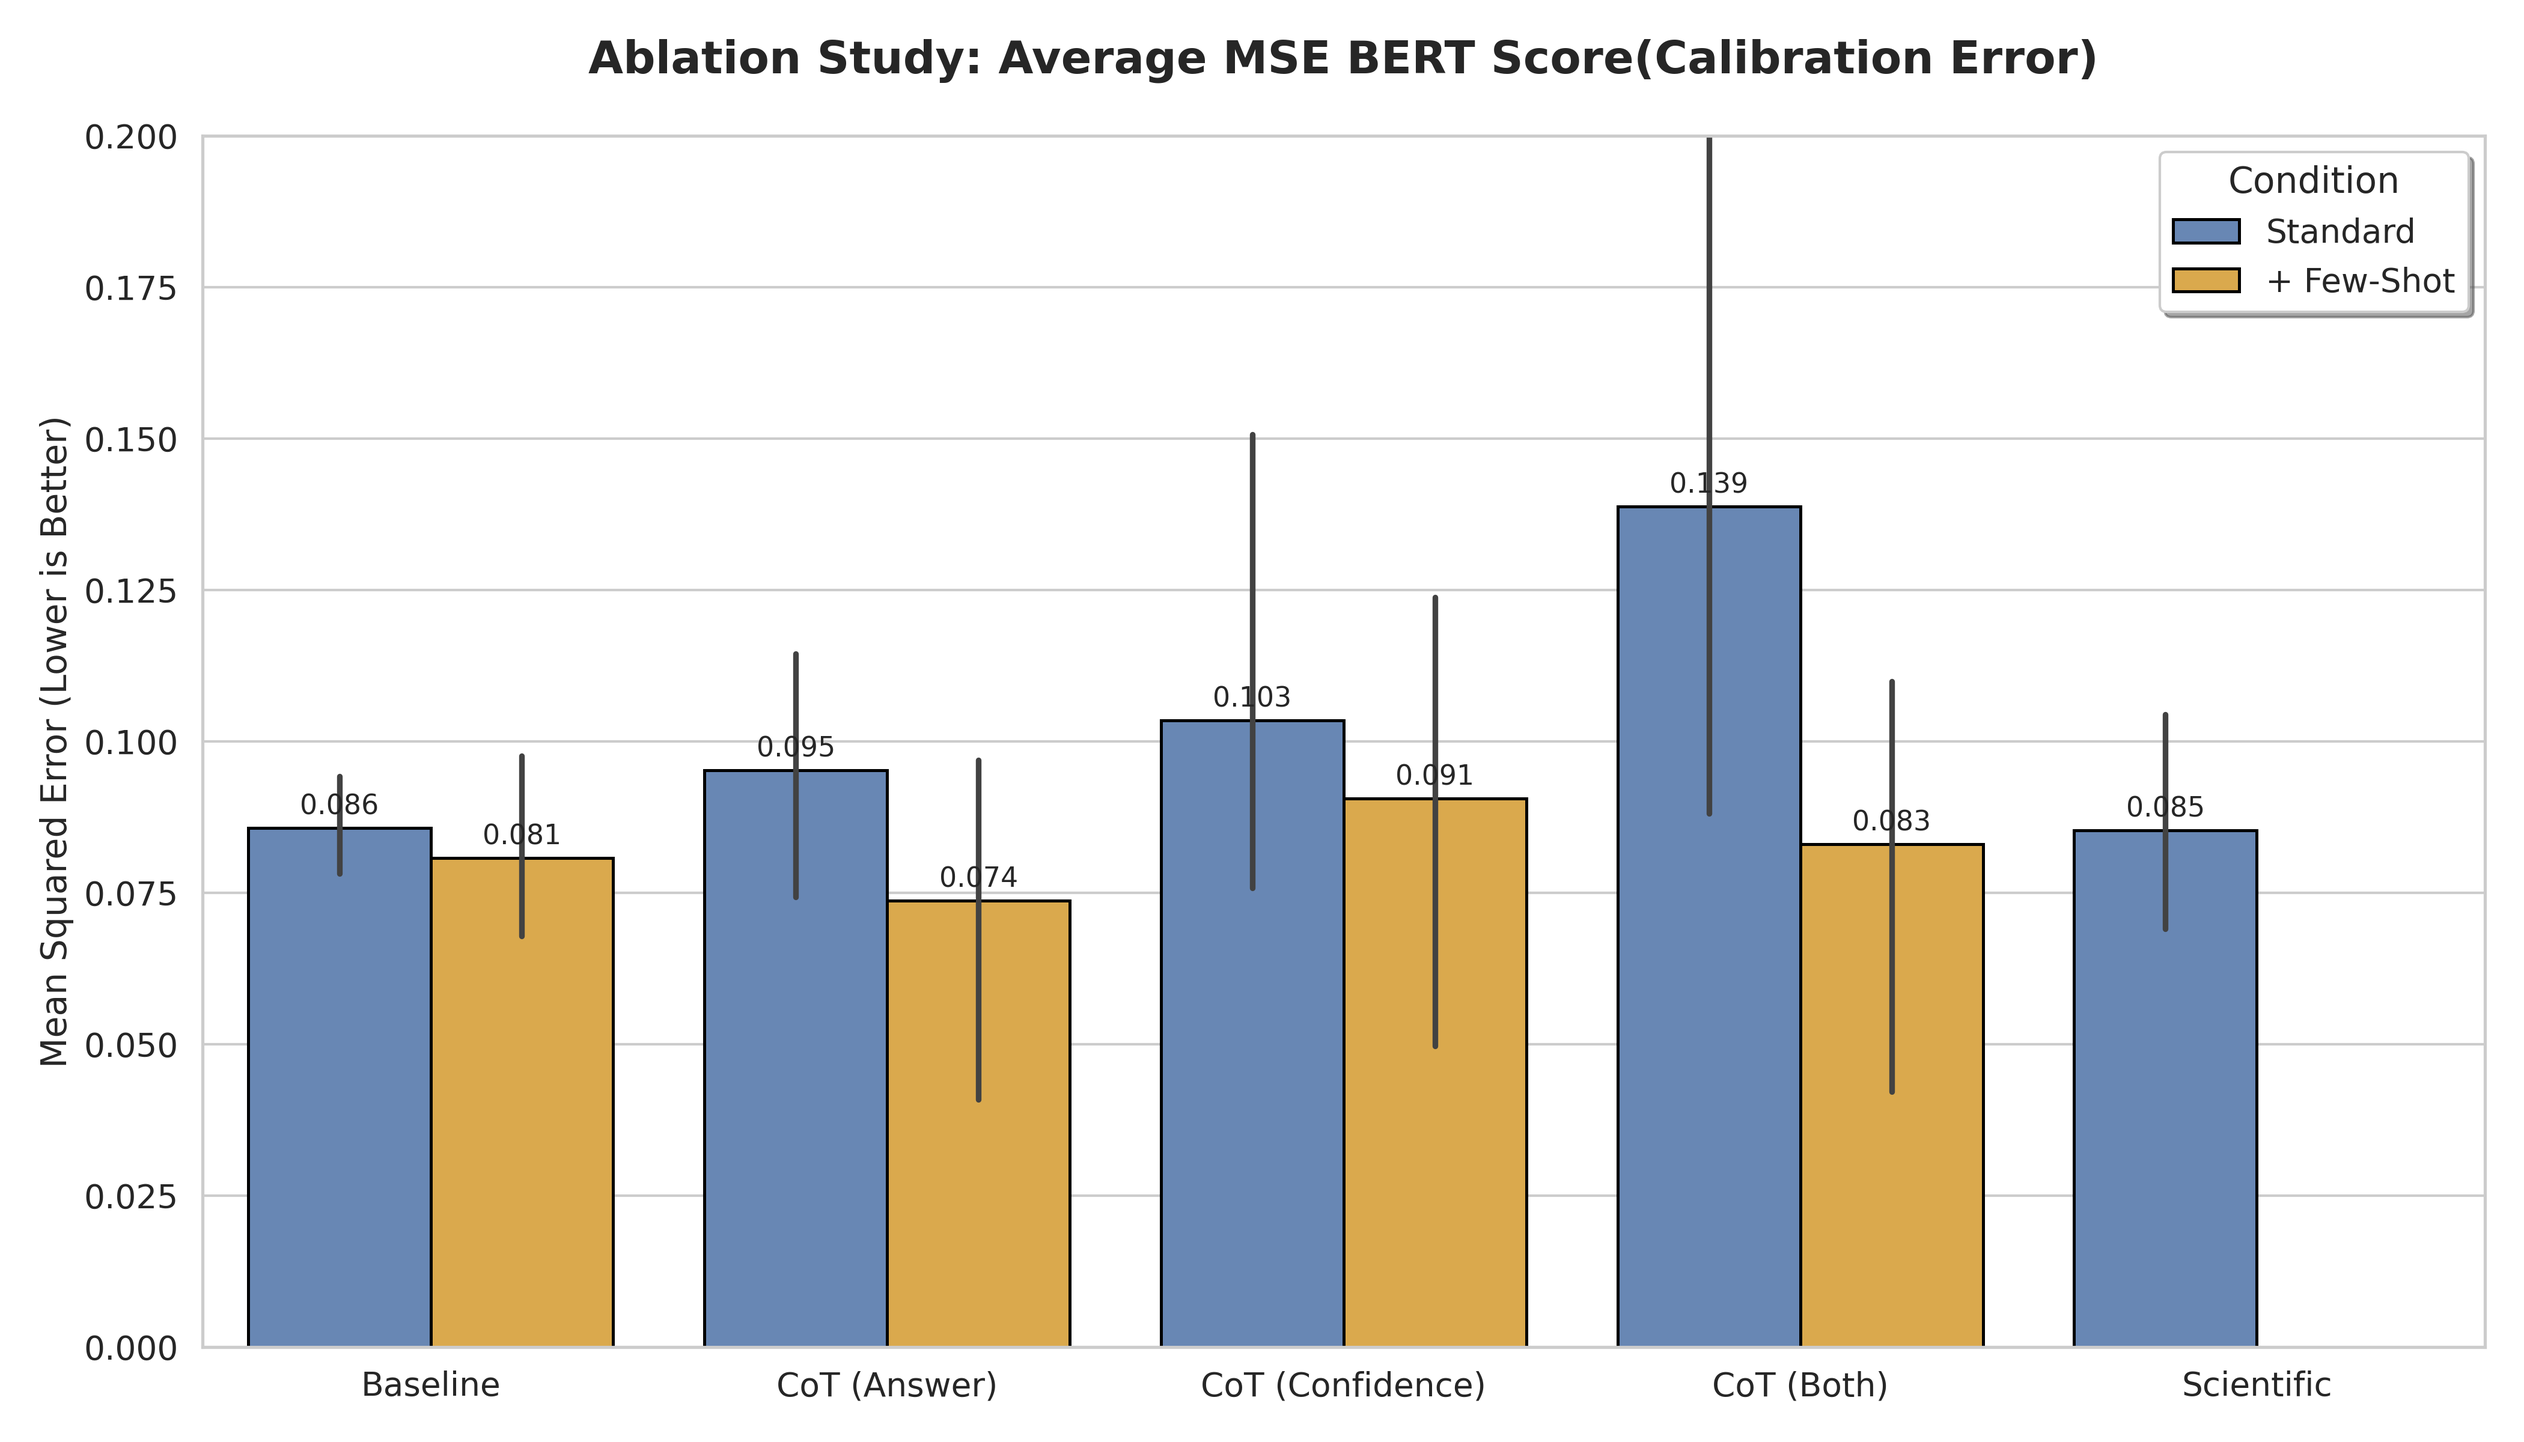
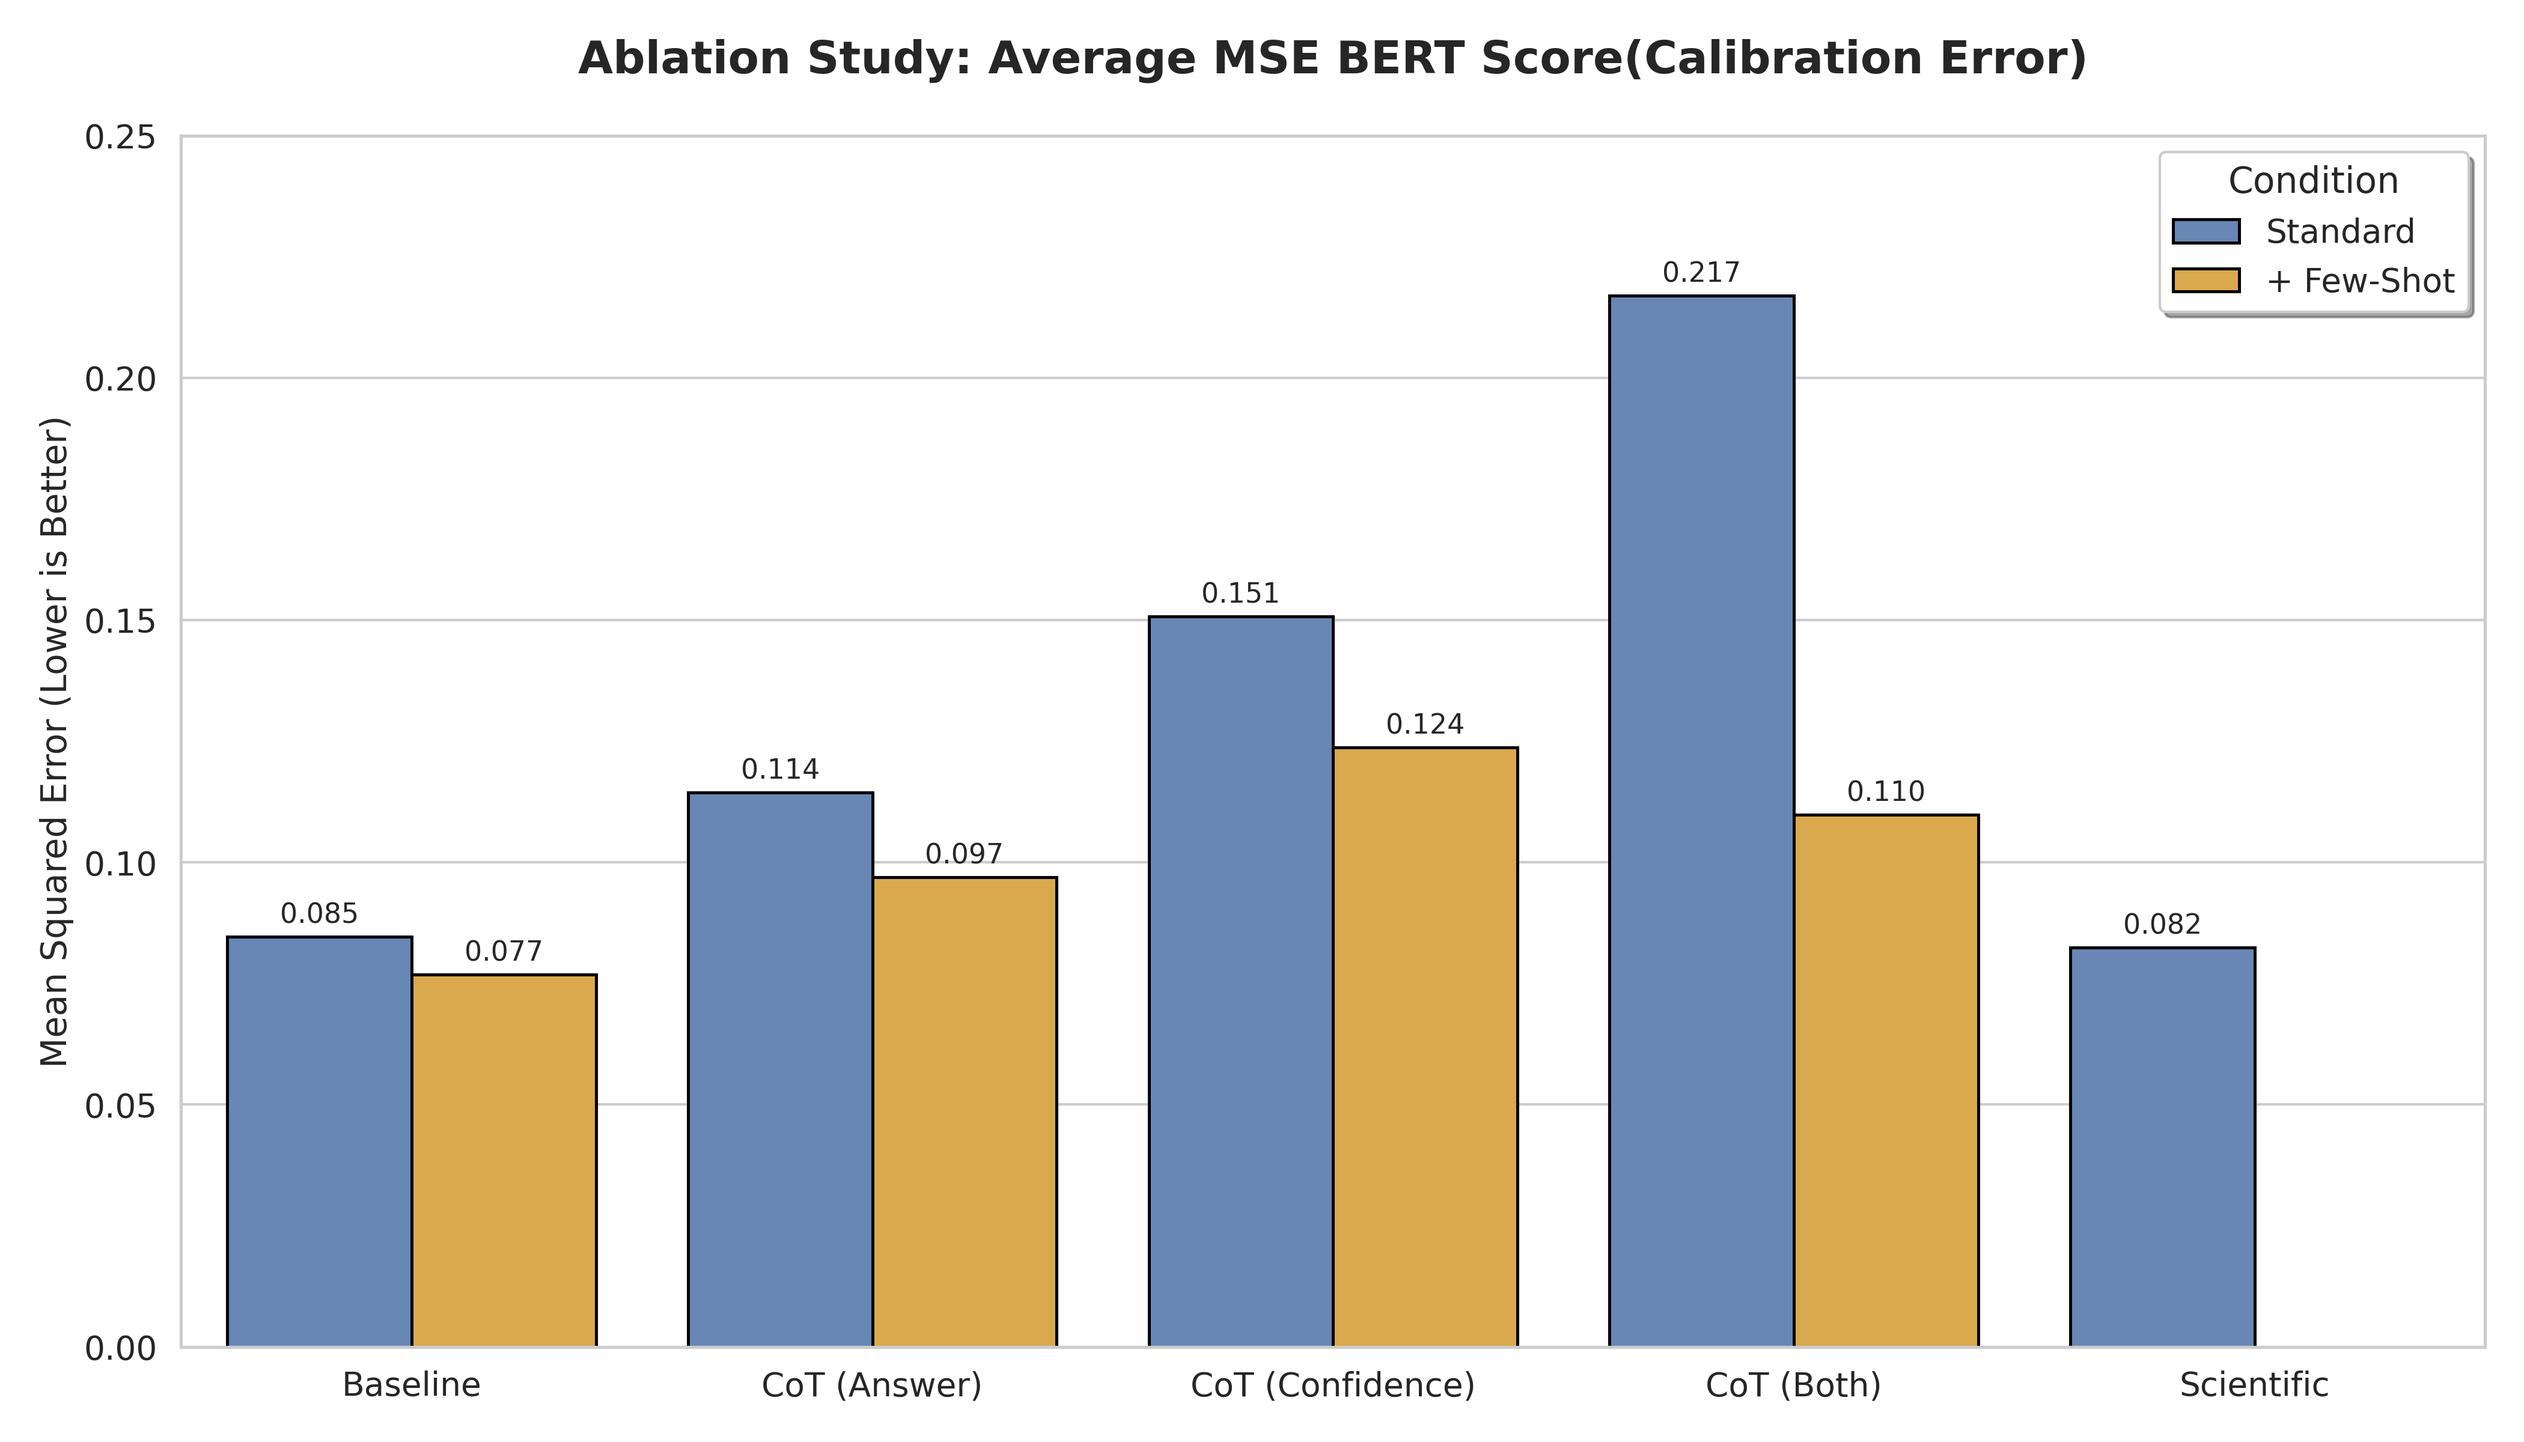
ablation study per llm fixed

diff --git a/evaluation_results/ablation_study_plot_bert.py b/evaluation_results/ablation_study_plot_bert.py
@@ -7,16 +7,14 @@ import numpy as np
 df_raw = pd.read_csv('model_ablation_mse_summary.csv')
 
 #MODEL="llama-3.1-8b-instant"
-MODEL="gemma-3-4b-it"
-#MODEL="gemma-3-27b-it"
+#MODEL="gemma-3-4b-it"
+MODEL="gemma-3-27b-it"
 OUTPUT_CSV = f"{MODEL}_ablation_study_mse_bert.png"
 
-df_llama = df_raw[df_raw['Model'] == MODEL].copy()
+df_selected = df_raw[df_raw['Model'] == MODEL].copy()
 
-# 2. Data Cleaning & Mapping
-# Filter out the impossible outliers (> 1.0) so they don't ruin the plot
-# (Note: You should investigate your CSVs to see why these numbers are so high!)
-df_clean = df_raw[df_raw['average mse bert'] <= 1.0].copy()
+# 2. Then clean outliers from that specific model subset
+df_clean = df_selected[df_selected['average mse bert'] <= 1.0].copy()
 
 # Map your Version names to Plot Categories
 version_map = {
@@ -56,7 +54,7 @@ ax = sns.barplot(
 plt.title('Ablation Study: Average MSE BERT Score(Calibration Error)', fontsize=18, fontweight='bold', pad=25)
 plt.ylabel('Mean Squared Error (Lower is Better)', fontsize=14)
 plt.xlabel('')
-plt.ylim(0, 0.2) # MSE shouldn't exceed 1.0
+plt.ylim(0, 0.25) # MSE shouldn't exceed 1.0
 plt.legend(title='Condition', loc='upper right', frameon=True, shadow=True)
 
 # Add numeric labels on top

diff --git a/evaluation_results/ablation_study_plot_f1.py b/evaluation_results/ablation_study_plot_f1.py
@@ -7,16 +7,14 @@ import numpy as np
 df_raw = pd.read_csv('model_ablation_mse_summary.csv')
 
 #MODEL="llama-3.1-8b-instant"
-MODEL="gemma-3-4b-it"
-#MODEL="gemma-3-27b-it"
+#MODEL="gemma-3-4b-it"
+MODEL="gemma-3-27b-it"
 OUTPUT_CSV = f"{MODEL}_ablation_study_mse_f1.png"
 
-df_llama = df_raw[df_raw['Model'] == MODEL].copy()
+df_selected = df_raw[df_raw['Model'] == MODEL].copy()
 
-# 2. Data Cleaning & Mapping
-# Filter out the impossible outliers (> 1.0) so they don't ruin the plot
-# (Note: You should investigate your CSVs to see why these numbers are so high!)
-df_clean = df_raw[df_raw['average mse f1'] <= 1.0].copy()
+# 2. Then clean outliers from that specific model subset
+df_clean = df_selected[df_selected['average mse f1'] <= 1.0].copy()
 
 # Map your Version names to Plot Categories
 version_map = {
